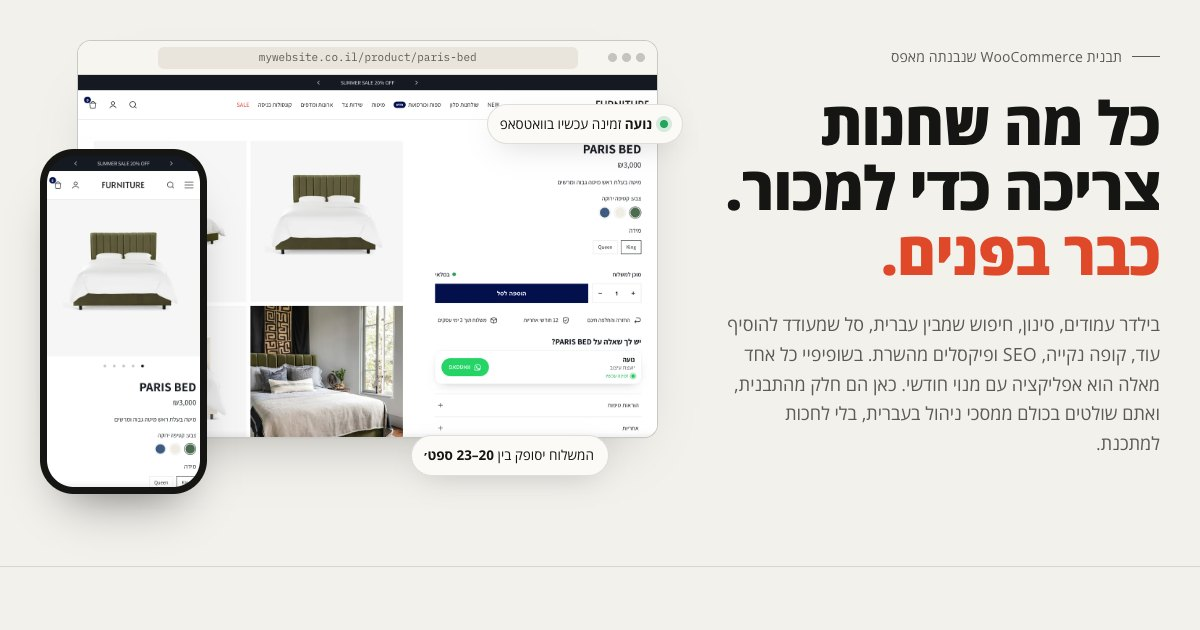
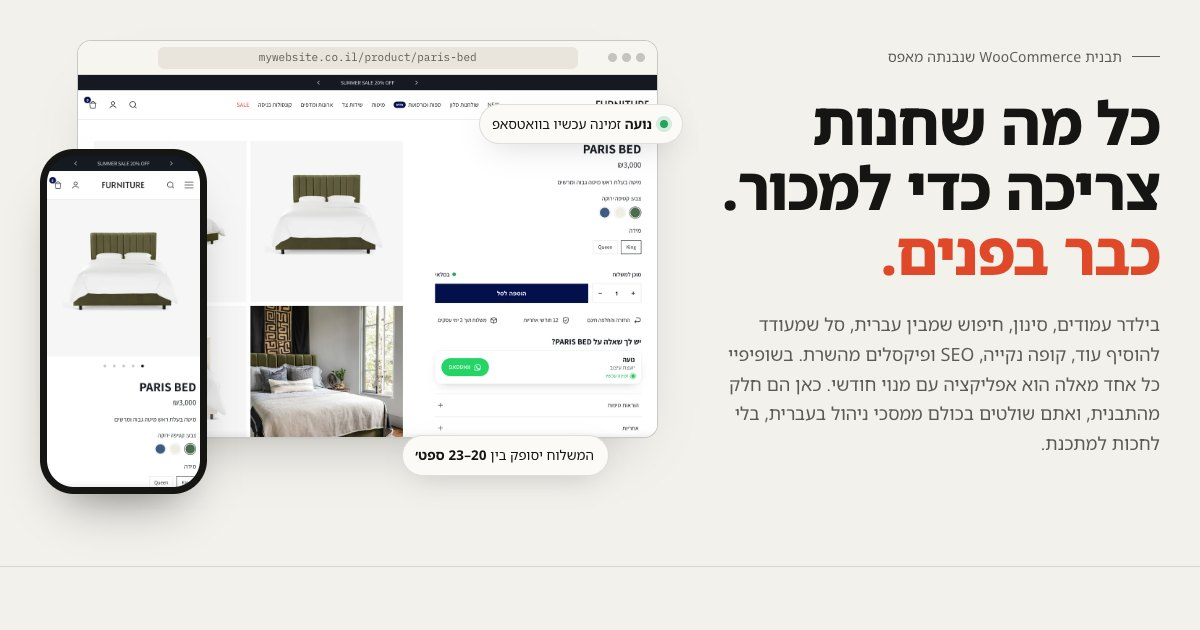
Showcase: Noto Sans Hebrew
George asked for Noto Sans Hebrew. Loaded from Google Fonts as a
variable 300-800 face; it carries Latin and digits too, so English words
and prices share the font. Preview image re-rendered.

diff --git a/showcase/index.html b/showcase/index.html
@@ -12,8 +12,8 @@
 <meta name="theme-color" content="#F3F1EC">
 <link rel="preconnect" href="https://fonts.googleapis.com">
 <link rel="preconnect" href="https://fonts.gstatic.com" crossorigin>
-<link href="https://fonts.googleapis.com/css2?family=Open+Sans:wght@300..800&family=IBM+Plex+Mono:wght@400;500&display=swap" rel="stylesheet">
-<link rel="stylesheet" href="styles.css?v=1789645954">
+<link href="https://fonts.googleapis.com/css2?family=Noto+Sans+Hebrew:wght@300..800&family=IBM+Plex+Mono:wght@400;500&display=swap" rel="stylesheet">
+<link rel="stylesheet" href="styles.css?v=1789646533">
 <link rel="preload" as="image" href="img/d-product.webp" fetchpriority="high">
 <script>document.documentElement.classList.remove('no-js')</script>
 </head>
@@ -638,6 +638,6 @@
 <a class="wa-float" href="https://wa.me/972544570027?text=%D7%94%D7%99%D7%99%2C%20%D7%A8%D7%90%D7%99%D7%AA%D7%99%20%D7%90%D7%AA%20%D7%A2%D7%9E%D7%95%D7%93%20%D7%94%D7%99%D7%9B%D7%95%D7%9C%D7%95%D7%AA%20%D7%A9%D7%9C%20%D7%94%D7%97%D7%A0%D7%95%D7%AA%20%D7%95%D7%90%D7%A9%D7%9E%D7%97%20%D7%9C%D7%A9%D7%9E%D7%95%D7%A2%20%D7%A2%D7%95%D7%93" target="_blank" rel="noopener" aria-label="שלחו לנו הודעה בוואטסאפ"><svg viewBox="0 0 24 24" aria-hidden="true"><path fill="currentColor" d="M12 2a10 10 0 0 0-8.6 15.1L2 22l5-1.3A10 10 0 1 0 12 2zm0 18.2a8.2 8.2 0 0 1-4.2-1.2l-.3-.2-3 .8.8-2.9-.2-.3A8.2 8.2 0 1 1 12 20.2zm4.5-6.1c-.2-.1-1.5-.7-1.7-.8s-.4-.1-.6.1-.7.8-.8 1-.3.2-.5.1a6.7 6.7 0 0 1-3.3-2.9c-.3-.4.2-.4.7-1.4a.5.5 0 0 0 0-.4l-.8-1.8c-.2-.5-.4-.4-.6-.4h-.5a1 1 0 0 0-.7.3 3 3 0 0 0-.9 2.2 5.1 5.1 0 0 0 1.1 2.7 11.6 11.6 0 0 0 4.5 4c1.7.7 2.3.8 3.1.6a2.7 2.7 0 0 0 1.8-1.2 2.2 2.2 0 0 0 .1-1.2c0-.1-.2-.2-.4-.3z"/></svg></a>
 
 <dialog class="lb" aria-label="תמונה מוגדלת"><button type="button">סגירה</button><img alt=""></dialog>
-<script src="app.js?v=1789645954" defer></script>
+<script src="app.js?v=1789646533" defer></script>
 </body>
 </html>

diff --git a/showcase/styles.css b/showcase/styles.css
@@ -6,8 +6,8 @@
   --accent:#E0482A; --accent-2:#FBE3DC;
   --good:#1D6A4A; --good-2:#DDEEE5;
   --dark:#141412; --dark-2:#1D1D1A; --dark-line:rgba(243,241,236,.14); --dark-ink-2:#B4B1A7;
-  --serif:"Open Sans", "Open Sans Hebrew", Arial, sans-serif;
-  --sans:"Open Sans", "Open Sans Hebrew", Arial, sans-serif;
+  --serif:"Noto Sans Hebrew", Arial, sans-serif;
+  --sans:"Noto Sans Hebrew", Arial, sans-serif;
   --mono:"IBM Plex Mono", ui-monospace, Menlo, monospace;
   --wrap:1240px; --gut:clamp(18px,4vw,40px);
   --r:14px;
